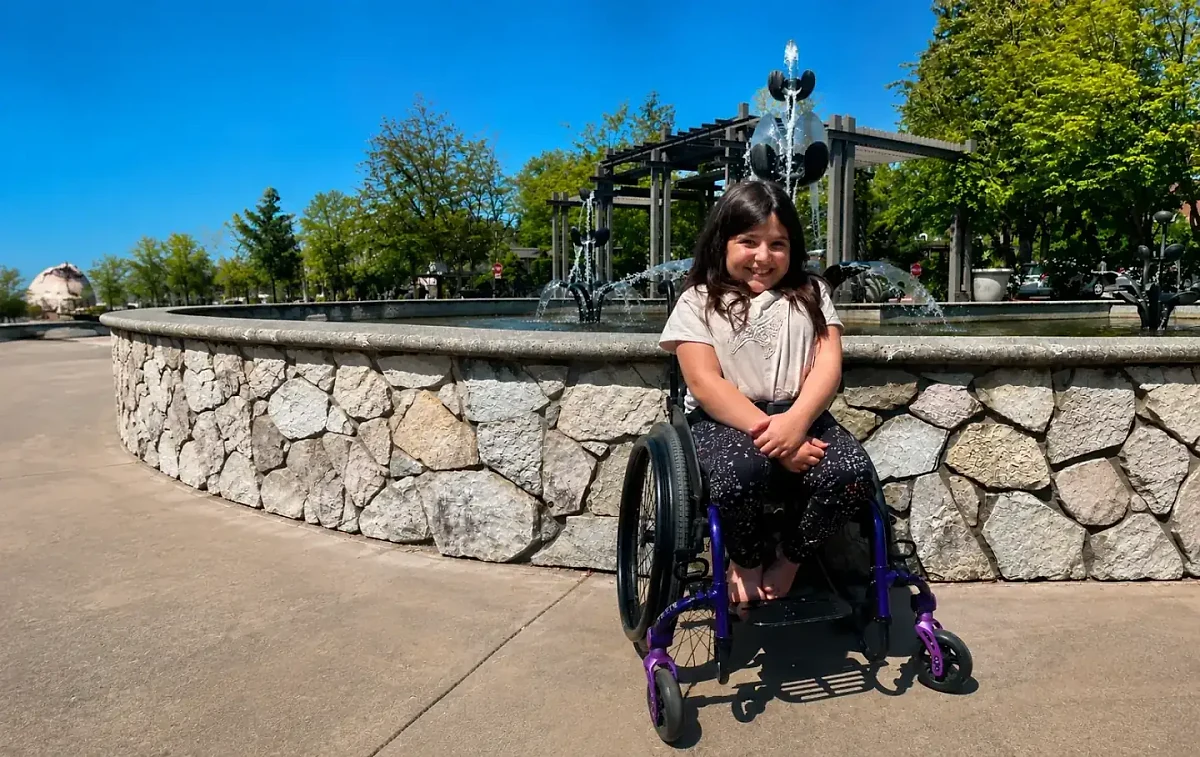
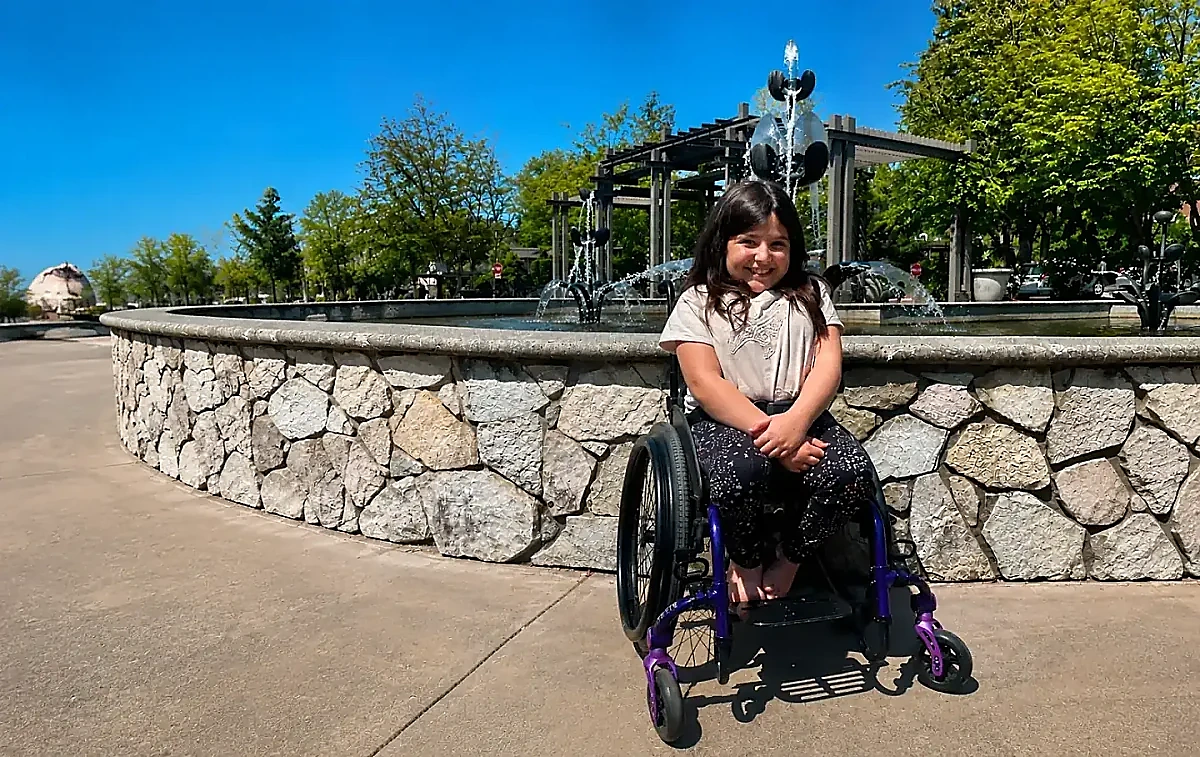
Sharpen the hero girl photo and keep blur falloff clear of her.

diff --git a/src/pages/HomePage.tsx b/src/pages/HomePage.tsx
@@ -17,8 +17,8 @@ import AnimatedText, { FadeIn } from "../components/motion/AnimatedText";
 import ScrollColorWords from "../components/motion/ScrollColorWords";
 import { TestimonialCard } from "../components/TestimonialCard";
 
-const HERO_MOBILE = "/hero-mobile.webp?v=2";
-const HERO_DESKTOP = "/hero-desktop.webp?v=2";
+const HERO_MOBILE = "/hero-mobile.webp?v=3";
+const HERO_DESKTOP = "/hero-desktop.webp?v=3";
 
 function avatarDataUri(initials: string, color: string) {
   const svg = `<svg xmlns="http://www.w3.org/2000/svg" width="128" height="128" viewBox="0 0 128 128"><rect width="128" height="128" fill="${color}"/><text x="64" y="72" text-anchor="middle" font-family="system-ui,sans-serif" font-size="44" font-weight="700" fill="#fff">${initials}</text></svg>`;
@@ -419,9 +419,9 @@ export default function HomePage() {
             className="absolute inset-0 pointer-events-none"
             style={{
               WebkitMaskImage:
-                "linear-gradient(to right, #000 0%, #000 35%, rgba(0,0,0,0.55) 48%, transparent 60%)",
+                "linear-gradient(to right, #000 0%, #000 45%, rgba(0,0,0,0.35) 54%, transparent 60%)",
               maskImage:
-                "linear-gradient(to right, #000 0%, #000 35%, rgba(0,0,0,0.55) 48%, transparent 60%)",
+                "linear-gradient(to right, #000 0%, #000 45%, rgba(0,0,0,0.35) 54%, transparent 60%)",
             }}
           >
             <picture>
@@ -442,9 +442,9 @@ export default function HomePage() {
             className="absolute inset-0 pointer-events-none bg-black/65"
             style={{
               WebkitMaskImage:
-                "linear-gradient(to right, #000 0%, #000 32%, rgba(0,0,0,0.55) 45%, transparent 55%)",
+                "linear-gradient(to right, #000 0%, #000 40%, rgba(0,0,0,0.4) 50%, transparent 55%)",
               maskImage:
-                "linear-gradient(to right, #000 0%, #000 32%, rgba(0,0,0,0.55) 45%, transparent 55%)",
+                "linear-gradient(to right, #000 0%, #000 40%, rgba(0,0,0,0.4) 50%, transparent 55%)",
             }}
           />
         </div>

diff --git a/index.html b/index.html
@@ -20,7 +20,7 @@
   <link
     rel="preload"
     as="image"
-    href="/hero-mobile.webp?v=2"
+    href="/hero-mobile.webp?v=3"
     type="image/webp"
     media="(max-width: 767px)"
     fetchpriority="high"
@@ -28,7 +28,7 @@
   <link
     rel="preload"
     as="image"
-    href="/hero-desktop.webp?v=2"
+    href="/hero-desktop.webp?v=3"
     type="image/webp"
     media="(min-width: 768px)"
     fetchpriority="high"
@@ -147,9 +147,9 @@
   </div>
   <div id="boot-hero" aria-hidden="true">
     <picture>
-      <source media="(min-width: 768px)" srcset="/hero-desktop.webp?v=2" type="image/webp" />
+      <source media="(min-width: 768px)" srcset="/hero-desktop.webp?v=3" type="image/webp" />
       <img
-        src="/hero-mobile.webp?v=2"
+        src="/hero-mobile.webp?v=3"
         alt=""
         width="1200"
         height="756"
